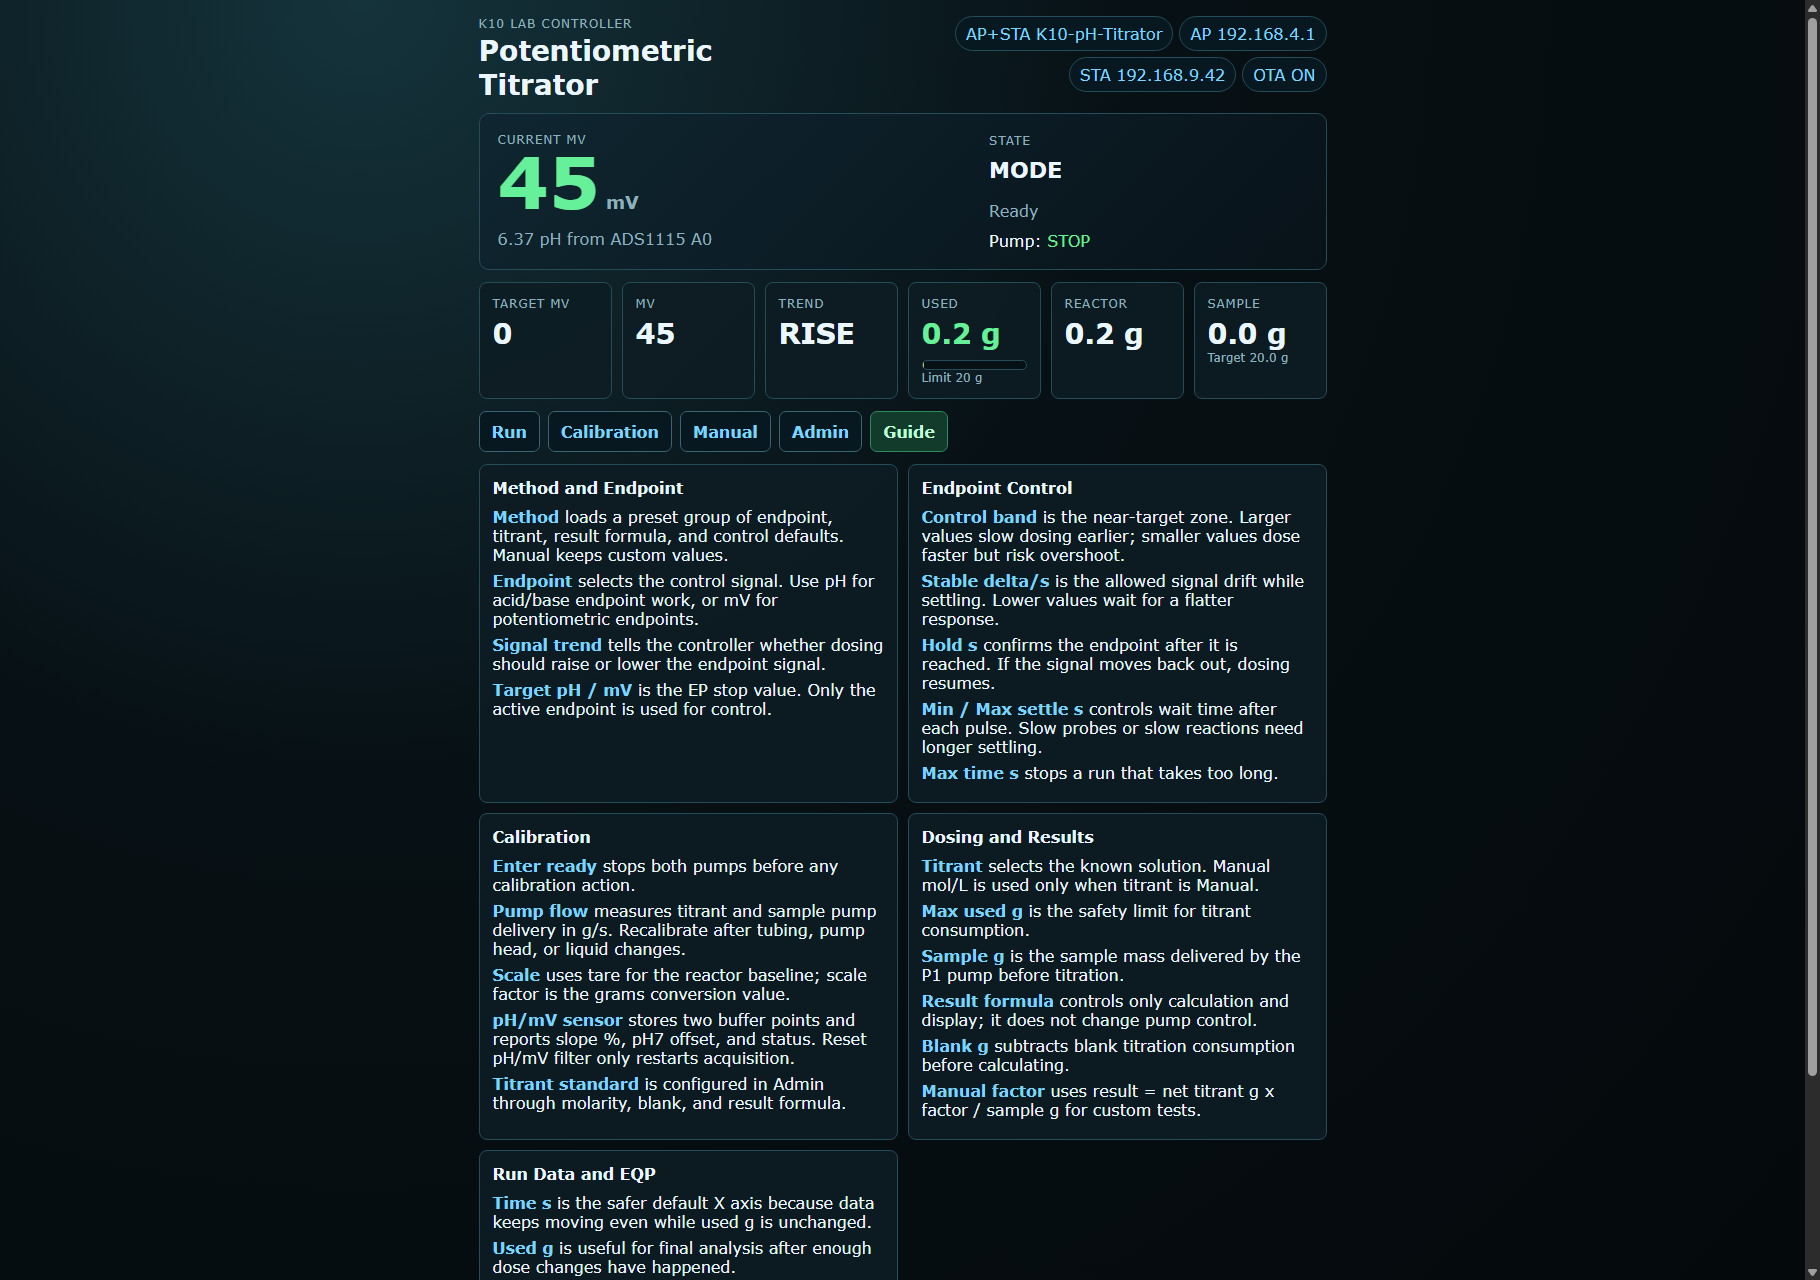
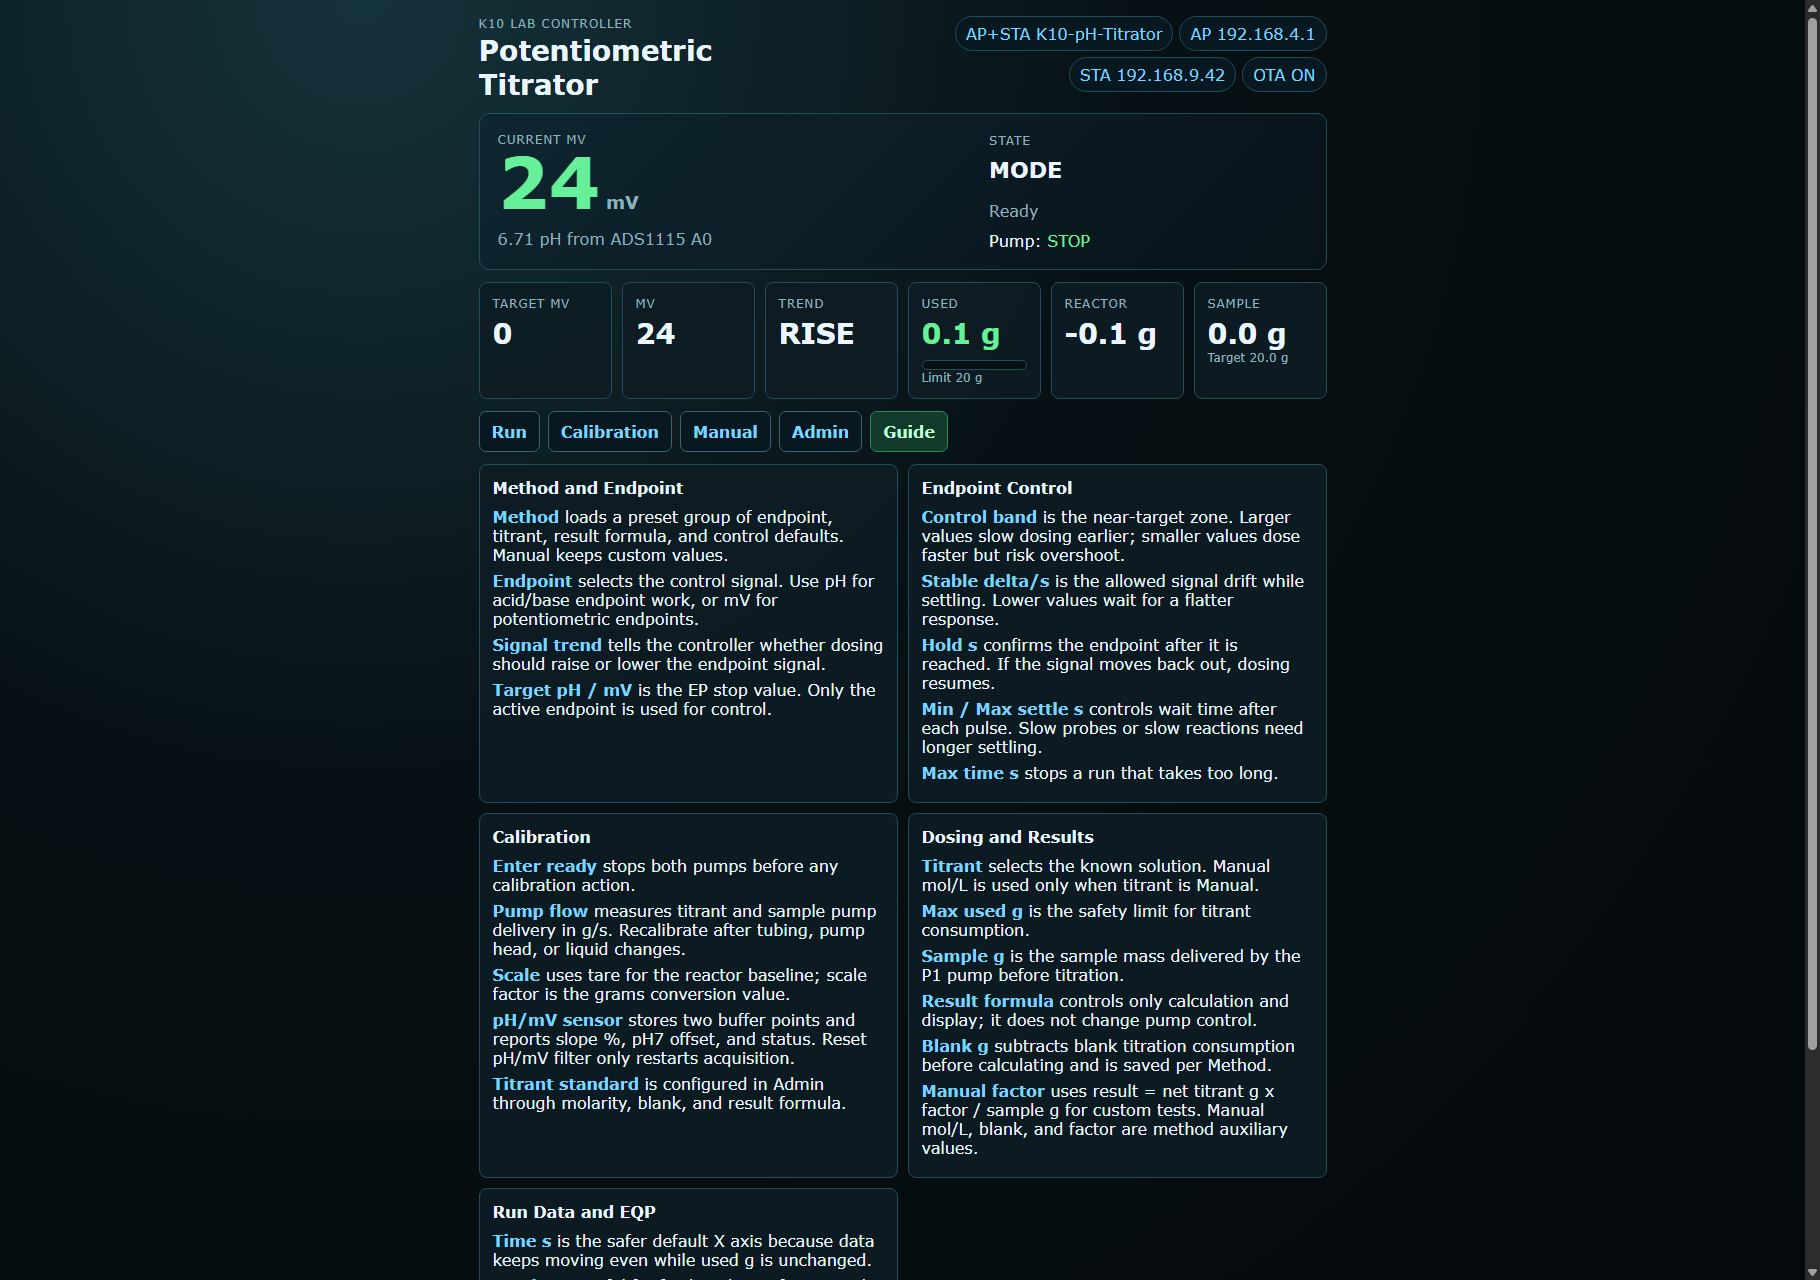
feat: persist method auxiliary values

diff --git a/README.md b/README.md
@@ -91,7 +91,8 @@ The project is evolving from a pH titrator into a general potentiometric titrato
 - [x] Web-side curves: browser records `/json` data, saves on the computer, and exports CSV/JSON.
 - [x] Lightweight EQP analysis: compute slope from curve data and mark the equivalence point.
 - [x] Result calculation for acid/base concentration, EDTA hardness, and manual factors.
-- [ ] Advanced features: learning titration, method workflow, blank values, sample series, and reports.
+- [x] Method-level blank and auxiliary values: store blank, manual molarity, and manual factor per Method.
+- [ ] Advanced features: method workflow, sample series, and reports.
 
 ---
 

diff --git a/README_CN.md b/README_CN.md
@@ -91,7 +91,8 @@ K10 (3.3 V I2C)          ADS1115 (0x49)           电子秤 (0x64)
 - [x] 网页曲线：浏览器记录 `/json` 数据，在电脑端保存并导出 CSV/JSON。
 - [x] 轻量 EQP：基于曲线数据计算斜率并标记等当点。
 - [x] 结果计算：支持酸碱浓度、EDTA 硬度和手动系数。
-- [ ] 高级能力：学习滴定、方法流程、空白值、系列样品和报告模板。
+- [x] 方法级空白值和辅助值：按 Method 保存 blank、手动浓度和手动系数。
+- [ ] 高级能力：方法流程、系列样品和报告模板。
 
 ---
 

diff --git a/docs/ROADMAP_CN.md b/docs/ROADMAP_CN.md
@@ -136,7 +136,7 @@
 
 - [x] 学习滴定：根据一轮曲线推荐 controlBand、stableDelta 和 settle 参数。
 - [ ] 方法流程编辑器：组合取样、混合、滴定、清洗、计算、报告等步骤。
-- [ ] 空白值和辅助值管理。
+- [x] 空白值和辅助值管理：按 Method 保存 blank、手动浓度和手动系数。
 - [ ] 系列样品记录。
 - [ ] 报告模板。
 

diff --git a/docs/MANUAL.md b/docs/MANUAL.md
@@ -307,6 +307,7 @@ Open the controller IP in a browser.
 - **Result formula**: acid/base concentration, EDTA total hardness (mg/L as CaCO3), or manual factor.
 - **Blank g**: blank titration consumption subtracted from titrant use before calculation.
 - **Manual factor**: conversion factor used by the manual result formula.
+- **Auxiliary value storage**: `Manual mol/L`, `Blank g`, and `Manual factor` are saved per current Method. Editing them does not switch the Method to Manual.
 - **WiFi**: STA SSID and password. Saved to flash; controller restarts automatically.
 
 ### Guide Parameter Notes

diff --git a/docs/MANUAL_CN.md b/docs/MANUAL_CN.md
@@ -307,6 +307,7 @@ pH 稳定后，状态变为 **Running（运行中）**，滴定循环开始。
 - **Result formula**：酸碱浓度、EDTA 总硬度（mg/L as CaCO3）或手动系数。
 - **Blank g**：空白滴定消耗量，计算结果时从滴定剂用量中扣除。
 - **Manual factor**：手动公式使用的换算系数。
+- **辅助值保存**：`Manual mol/L`、`Blank g` 和 `Manual factor` 按当前 Method 单独保存；修改这些值不会把方法切换成 Manual。
 - **WiFi**：STA 的 SSID 和密码。保存后自动重启。
 
 ### Guide 参数说明